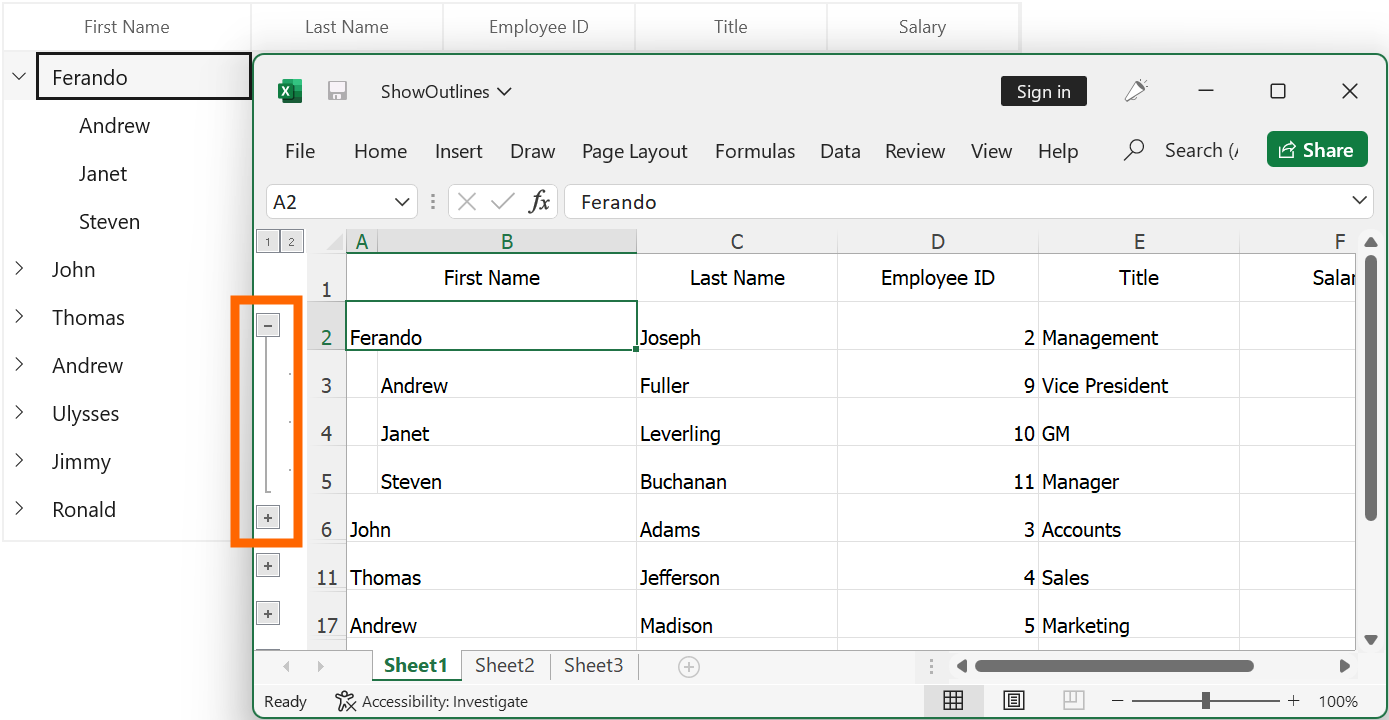
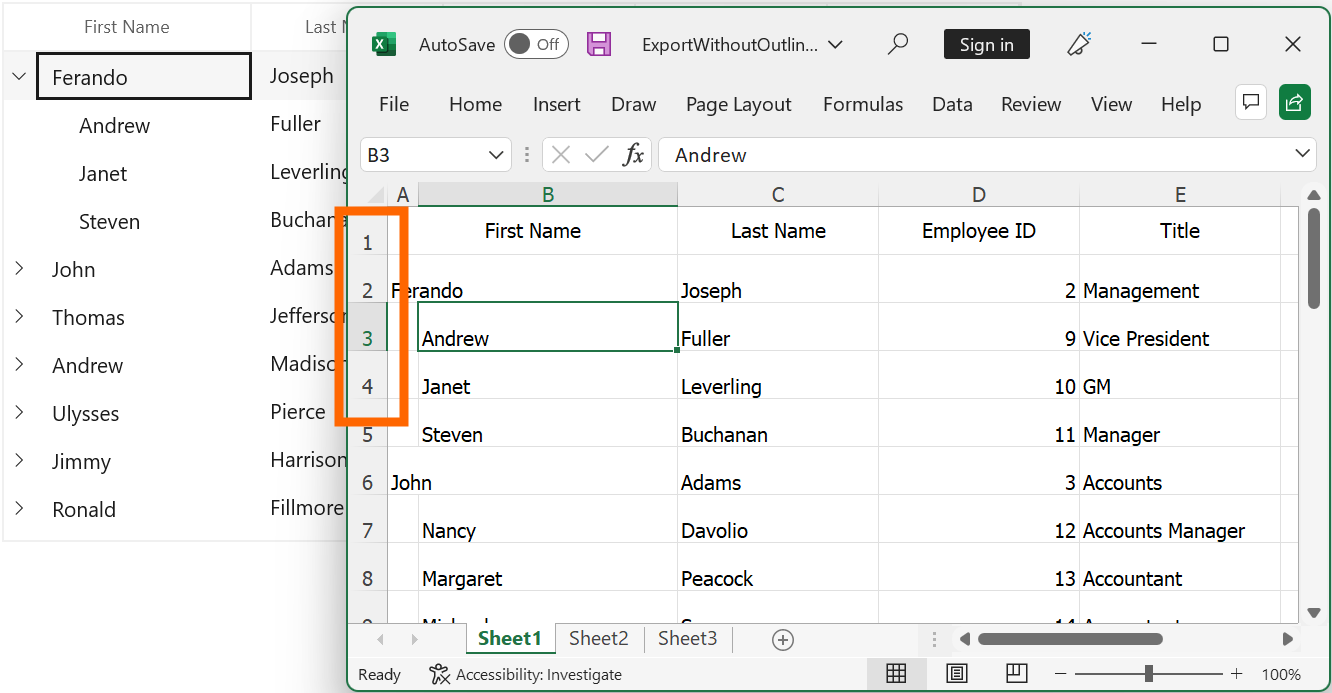
Addressed the concerns

diff --git a/winui/TreeGrid/Export-To-Excel.md b/winui/TreeGrid/Export-To-Excel.md
@@ -90,7 +90,7 @@ Save(stream, "Sample");
 {% endhighlight %}
 {% endtabs %}
 
-### Export with outlines	
+### Export without outlines	
 
 By default, all the children in TreeGrid will be exported based on the state in TreeGrid. Disable the outlines in Excel by setting the `ShowOutlines` property to false in the`TreeGridExcelExportOptions` class.
 
@@ -98,7 +98,7 @@ By default, all the children in TreeGrid will be exported based on the state in 
 {% highlight c# %}
 var options = new TreeGridExcelExportOptions();
 options.ExcelVersion = ExcelVersion.Excel2013;
-options.ShowOutlines = true;
+options.ShowOutlines = false;
 var excelEngine = treeGrid.ExportToExcel(options);
 var workBook = excelEngine.Excel.Workbooks[0];
 MemoryStream stream = new MemoryStream();
